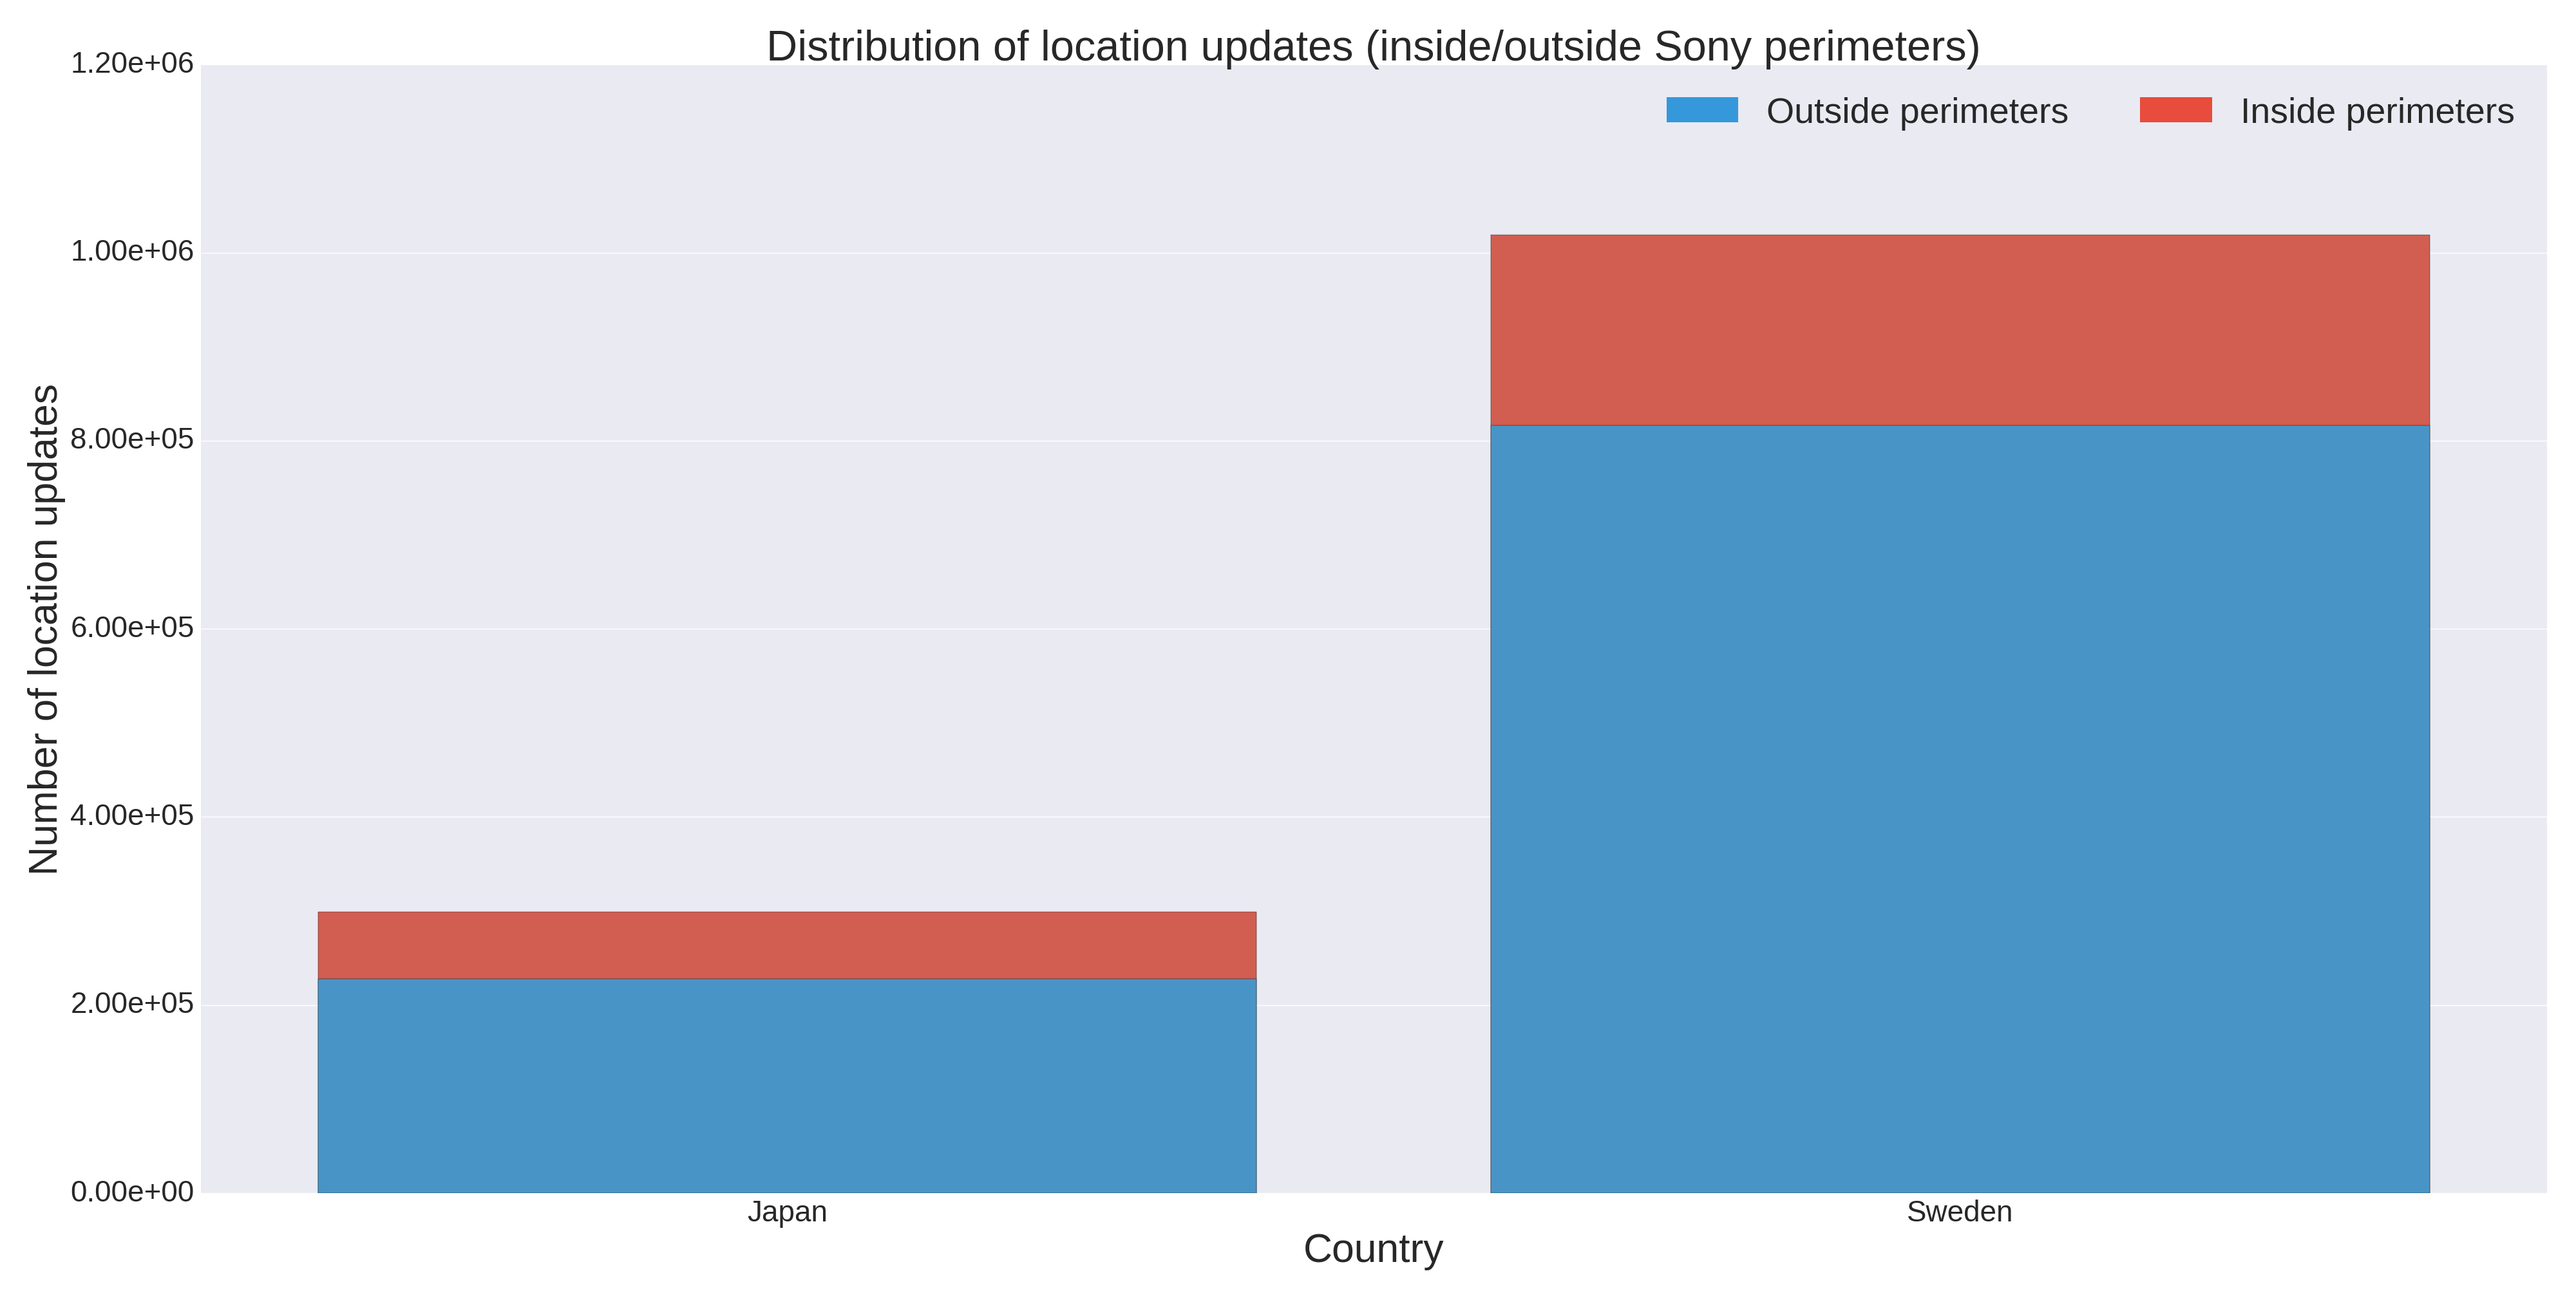
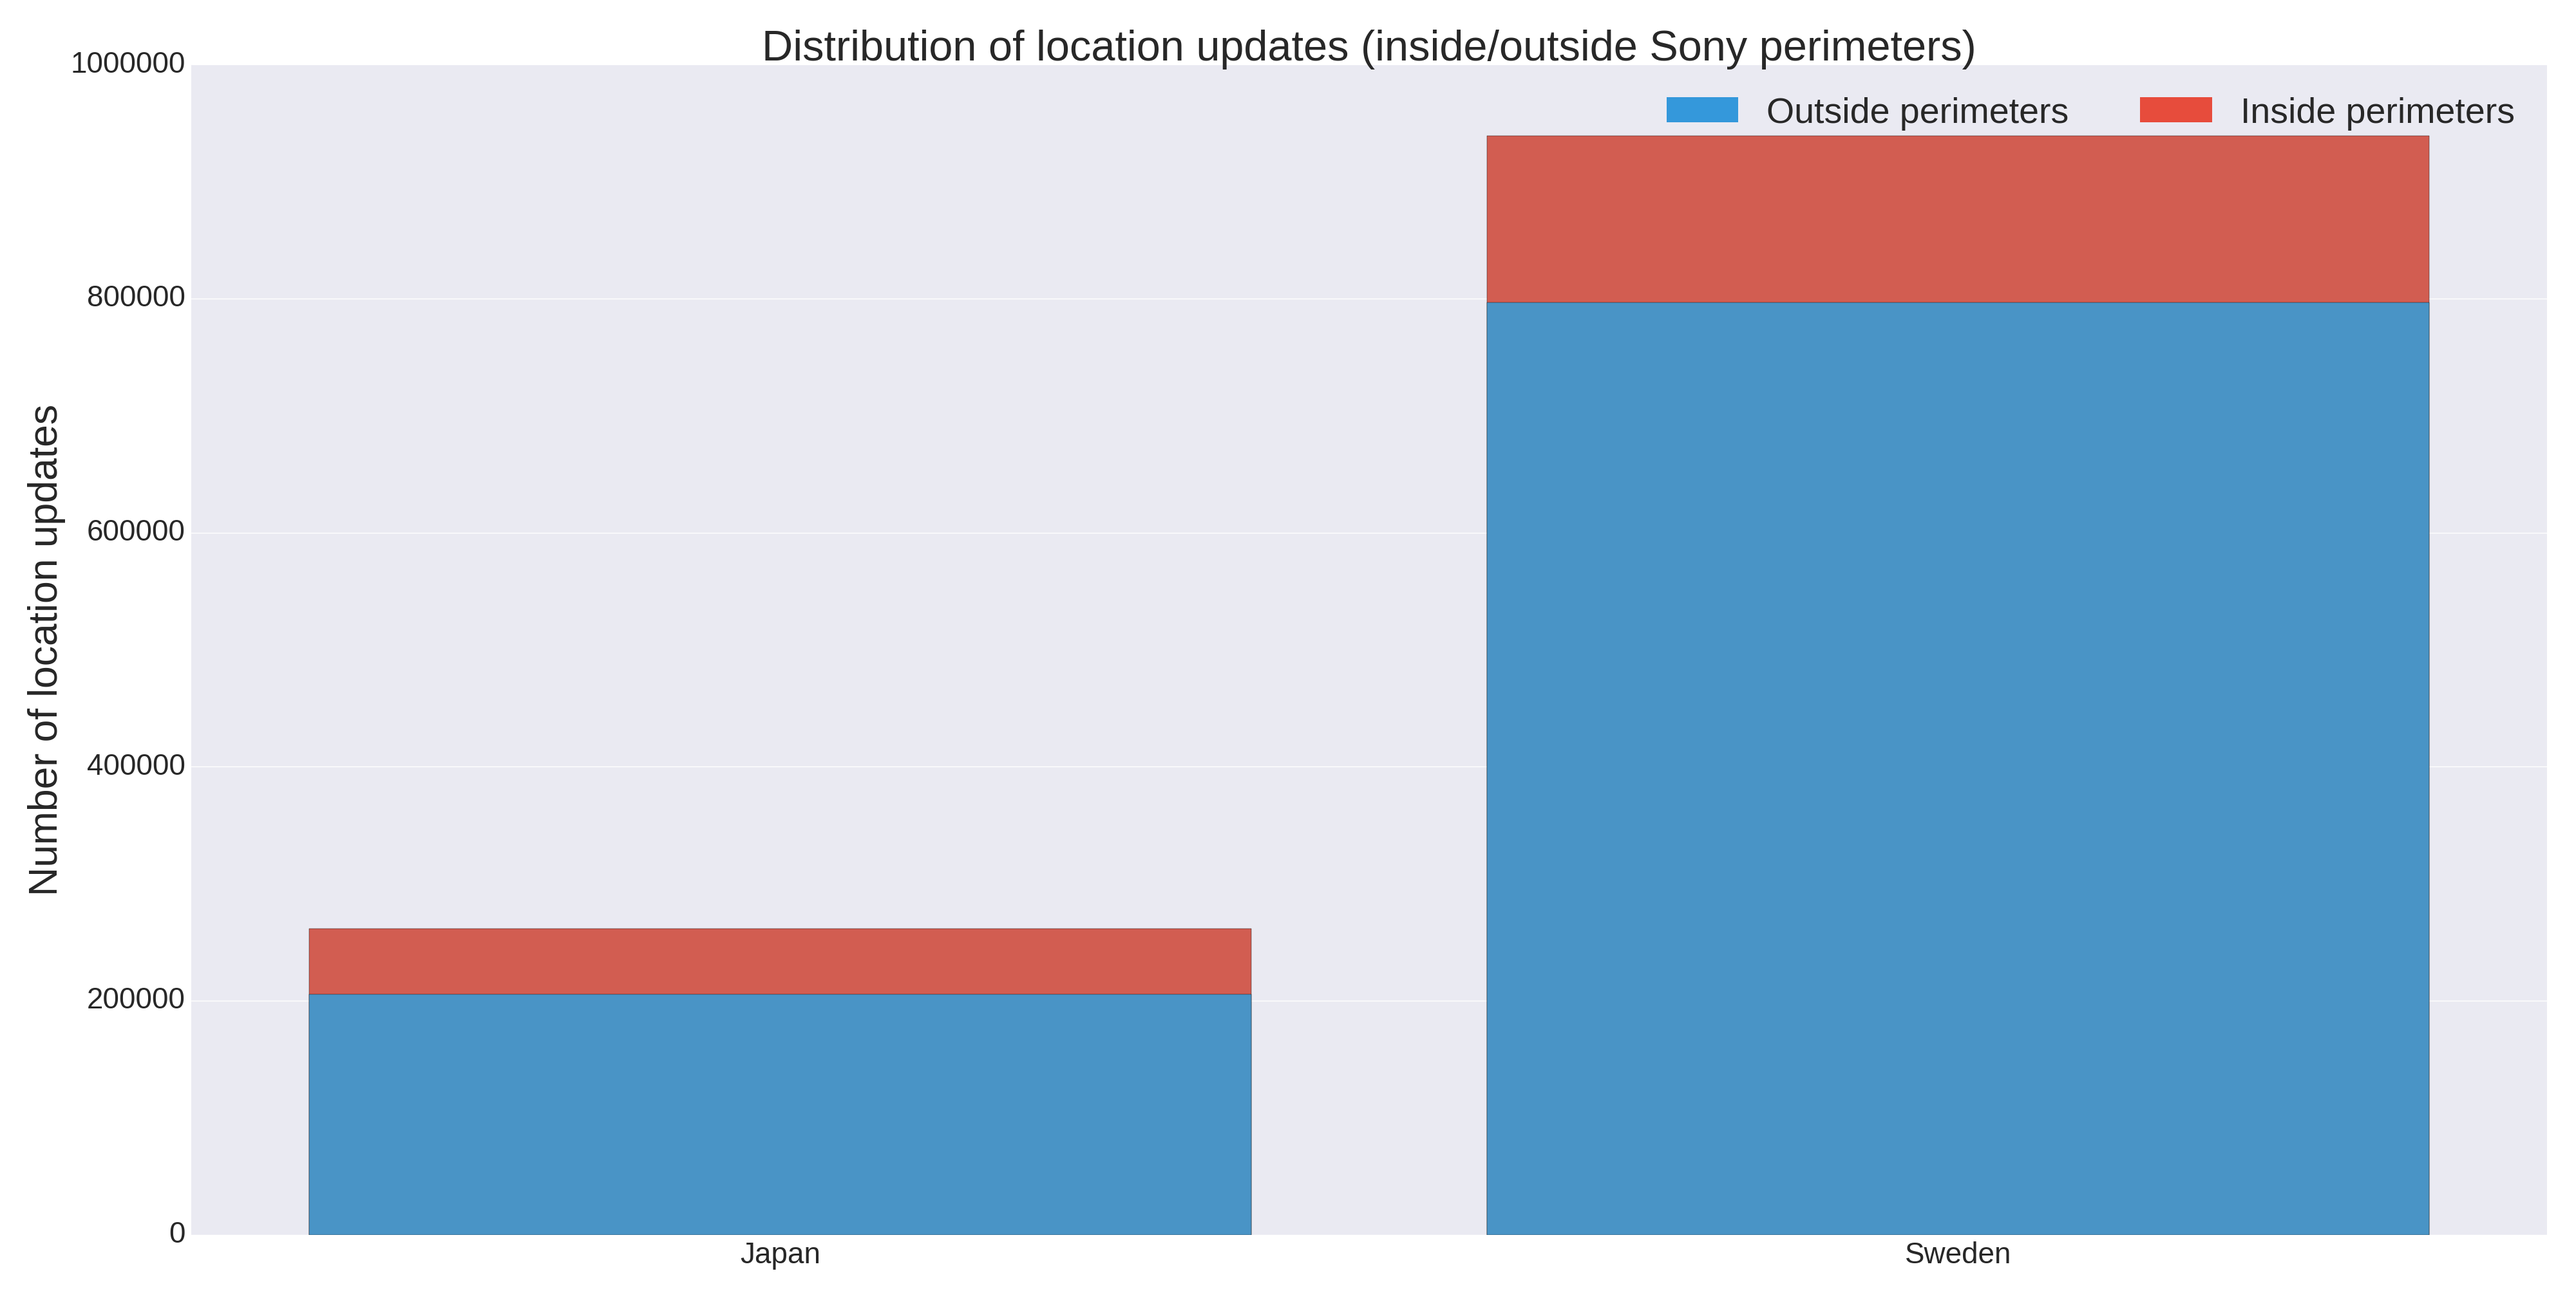
figures and dataset updated

diff --git a/report/dataset.tex b/report/dataset.tex
@@ -138,9 +138,9 @@ Figure \ref{fig:mean_loc_updates_sep-nov} sammenligner gennemsnittet for lokatio
 \end{figure}
 
 Vi kan se at Sverige har betydeligt flere opdateringer end Japan i alle tre måneder, hvor landet i September og Oktober endda har dobbelt så mange end Japan. Vi kan også se en nedadgående tendens i begge lande. September har højest antal opdateringer, hvor det herefter går nedad i de to resterende måneder, hvor November for Sverige ligger over 300 opdateringer under September. Selvom tendensen ses tydeligst for Sverige, er den også synlig for Japan. \\
-Dette kigger vi nærmere på senere. \textcolor{red}{heatmaps???}
+Dette kigger vi nærmere på senere.
 
-Som der blev nævnt tidligere, er der nogle naturlige samlingssteder for Sverige og Japan, da dataet er for Sony medarbejdere. Disse steder er naturligvis arbejdsrelaterede, såsom Sonys kontorer i de to lande. Vi har fundet frem til to steder i Sverige og et i Japan. Grunden til at dette er væsentligt for os er, at folk selvfølgelig har flere co-occurrences på et arbejdsrelateret sted, end et ikke arbejdsrelateret sted, da man er mange på et forholdvis lille område.\textcolor{red}{kilde?!?!} Derudover er der møder, pauser og andet som også gør at folk har en co-occurrence. Dette lyder meget godt, men det betyder langt fra at folk kender hinanden, fordi de har en co-occurence. Folk møder ofte kolegaer, uden de nødvendigvis kender hinanden. \textcolor{red}{Dette er noget vi beskriver nærmere i ....}
+Som der blev nævnt tidligere, er der nogle naturlige samlingssteder for Sverige og Japan, da dataet er for Sony medarbejdere. Disse steder er naturligvis arbejdsrelaterede, såsom Sonys kontorer i de to lande. Vi har fundet frem til tre steder i Sverige og et i Japan. Grunden til at dette er væsentligt for os er, at folks co-ocurences er arbejdsrelaterede, hvilket ikke nødvendigs betyder, at de er venner med personen de fik en co-occurence med.
 
 Det er derfor interessant at se, hvor mange af opdateringer for hvert land der ligger indenfor de fundne samlingssteder og hvor mange der ligger udenfor. 
 
@@ -211,10 +211,10 @@ Vi har plotted heatmaps over hvordan opdateringerne er fordelt over et døgn. De
     \hspace*{-0.8cm}
     \centering
     \includegraphics[scale=0.15]{aggregated_updates_over_time_japan}
-    \caption{Heat map for location updates over the 3 month period in Japan, aggregated over a day with 60 minutes of binsize. Users are sorted by total number of location. Largest is at the bottom}
+    \caption{Heat map for location updates over the 3 month period in Japan, aggregated over a day with 60 minutes of binsize. Users are sorted by total number of location. Largest is at the bottom. The scale is logarithmic}
     \label{fig:agg_heatmap_jap}
 \end{figure}
-Figure \ref{fig:agg_heatmap_jap} viser hvordan opdateringerne for hver user (y-aksen), fordeler sig over tidsrummet på en dag, målt over alle tre måneder. Det ses at skalaen går til ca. 70, hvilket betyder at brugeren med flest aggregerede opdateringer i et time-slot (på en time), har ca. 70 opdateringer henover alle tre måneder. Brugerne er sorteret på baggrund af deres samlede aggregerede værdier, med den største nederst på y-aksen. 
+Figure \ref{fig:agg_heatmap_jap} viser hvordan opdateringerne for hver user (y-aksen), fordeler sig over tidsrummet på en dag, målt over alle tre måneder. Brugerne er sorteret på baggrund af deres samlede aggregerede værdier, med den største nederst på y-aksen. 
 
 Man ser tydeligt, at der er en periode mellem kl. 02:00 og kl. 06:00 hvor de fleste brugere ikke har nogle updates, dette kunne tyde på at de enten slukker eller på anden måde lukker for kommunikationen med omverdenen i det givne tidsrum. Herefter fra kl. 06:00 til 00:00 er der regelmæssig opdateringer, hvorefter det stilner af til kl. 02:00. Hvis vi sammenligner dette med Figure \ref{fig:cumu_loc_time_jap_swe} kan vi se det stemmer meget godt overens. Figure \ref{fig:cumu_loc_time_jap_swe} viser den aggrgerede location updates henover et døgn i både Japan og Sverige. Her ser vi samme udvikling for Japan som heat mappet indikerer, som beskrevet ovenfor. 
 

diff --git a/tools/scripts/records_analysis.py b/tools/scripts/records_analysis.py
@@ -865,7 +865,7 @@ def compare_loc_updates_per_month():
     ax = sns.countplot(x="Month", hue="Countries", data=df)
     ax.set_ylabel("Number of location updates")
     ax.set_title("Location updates per user in Japan and Sweden over three month period")
-    #ax.set_xlabel("Days")
+    ax.set_xlabel("")
     sns.plt.legend(prop={'size': 40})
     sns.plt.tick_params(labelsize=20)
     [item.set_fontsize(45) for item in [ax.yaxis.label, ax.xaxis.label]]
@@ -973,8 +973,9 @@ def location_updates_at_hq_or_not():
     bottom_plot.set_ylabel("Number of location updates")
     bottom_plot.set_title("Distribution of location updates (inside/outside Sony perimeters)")
     #ax.set_xlabel("Days")
+    ax.set_xlabel("")
     #plt.legend(prop={'size': 40})
-    ax.yaxis.set_major_formatter(tck.FormatStrFormatter('%.2e'))
+    #ax.yaxis.set_major_formatter(tck.FormatStrFormatter('%.2e'))
     sns.plt.tick_params(labelsize=20)
     [item.set_fontsize(45) for item in [ax.yaxis.label, ax.xaxis.label]]
     ax.title.set_fontsize(48)
@@ -1021,6 +1022,7 @@ def coocs_at_hq_or_not():
     bottom_plot.set_title("Distribution of co-occurrences (inside/outside Sony perimeters)")
     #ax.set_xlabel("Days")
     #plt.legend(prop={'size': 40})
+    
     sns.plt.ylim(0, 1300000)
     sns.plt.tick_params(labelsize=20)
     ax.yaxis.set_major_formatter(tck.FormatStrFormatter('%.2e'))
@@ -1099,11 +1101,11 @@ if __name__ == '__main__':
     #
     #accuracy_summary()
     countries = ["Japan", "Sweden"]
-    show_all_month_same_scale(countries, values_loc_updates=True,
-                              same_scale_over_countries=True,
-                              sorter_non_location_user_fra=False,
-                              sorter_efter_sum=True, log=True,
-                              mask=True, mask_value=0, show_user_ticks=False, multiple=True)
+    # show_all_month_same_scale(countries, values_loc_updates=True,
+    #                           same_scale_over_countries=True,
+    #                           sorter_non_location_user_fra=False,
+    #                           sorter_efter_sum=True, log=True,
+    #                           mask=True, mask_value=0, show_user_ticks=False, multiple=True)
 
 
     #---------------------------
@@ -1125,7 +1127,7 @@ if __name__ == '__main__':
     #location_updates_at_hq_or_not()
     #cdf_xy_plot()
     #time_plot()
-    #compare_loc_updates_per_month()
+    compare_loc_updates_per_month()
     #data, df, total_count, countries = fetch_data()
 
     #show_all_month_for_contries()

diff --git a/tools/scripts/country_distribution.py b/tools/scripts/country_distribution.py
@@ -14,7 +14,7 @@ import matplotlib.ticker as tck
 
 
 
-def get_data():
+def get_data(top_five=True):
     country_dist = d.get_distributions_categories("country")
     countries = []
     data = []
@@ -22,7 +22,11 @@ def get_data():
     for row in tqdm(country_dist['results']):
         #countries.append(row['Countries'])
         #values.append(row['Count'])
-        if row['Countries'] in filter_countries:
+        if top_five:
+            if row['Countries'] in filter_countries:
+                data.extend([row['Countries']]*row['Count'])
+                countries.append(row['Countries'])
+        else:
             data.extend([row['Countries']]*row['Count'])
             countries.append(row['Countries'])
     return data, countries
@@ -38,10 +42,10 @@ def bar_plot(data, labels):
     ax = sns.countplot(x="test2", data=test)
     #sns.set(font_scale=2.5)
     ax.set_xticklabels(labels)
-    ax.set_xlabel("Countries") #fontsize=35
+    #ax.set_xlabel("Countries") #fontsize=35
     ax.set_ylabel("Number of location updates") #, fontsize=35
     #ax.set(ylabel="Count")
-    ax.set(title="Country distribution")
+    ax.set(title="Top 5 countries with most location updates")
     #ax.yaxis.set_major_formatter(tck.FuncFormatter(func)) #FormatStrFormatter(func)) #'%.2e'
     #sns.plt.tick_params(labelsize=28)
     #sns.plt.rcParams['axes.labelsize'] = 25
@@ -57,7 +61,7 @@ def func(x, pos):
 if __name__ == '__main__':
     d = DatabaseHelper.DatabaseHelper()
     #print(sns.load_dataset("titanic"))
-    data, labels = get_data()
+    data, labels = get_data(top_five=True)
 
     bar_plot(data, labels)
     
